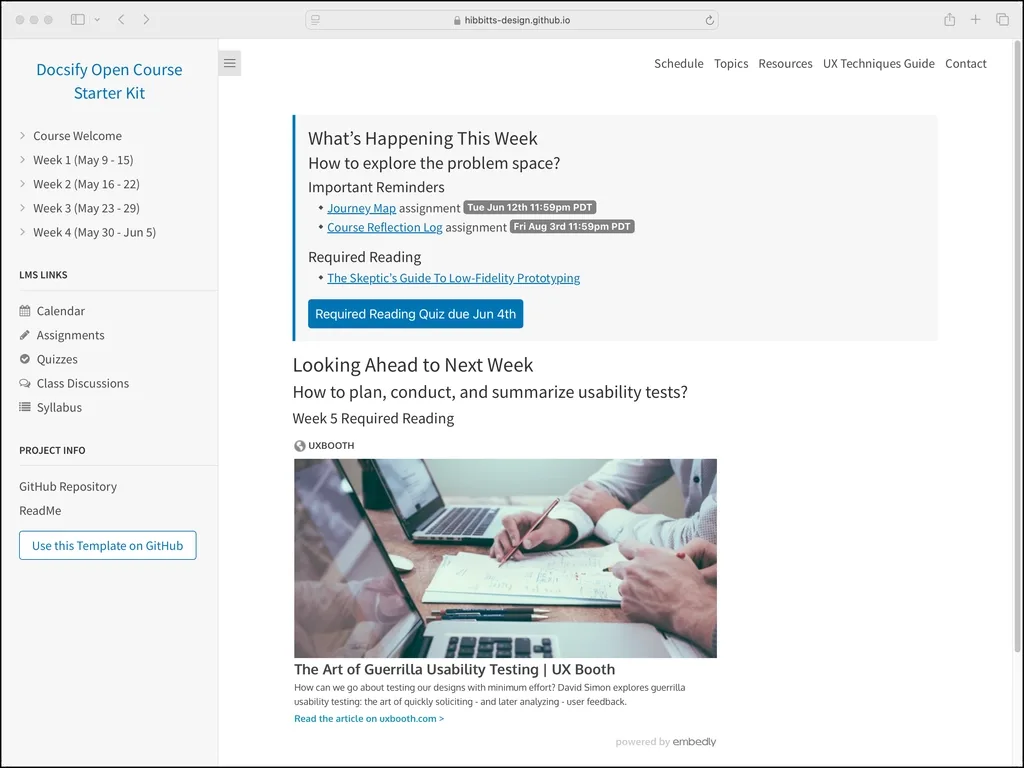
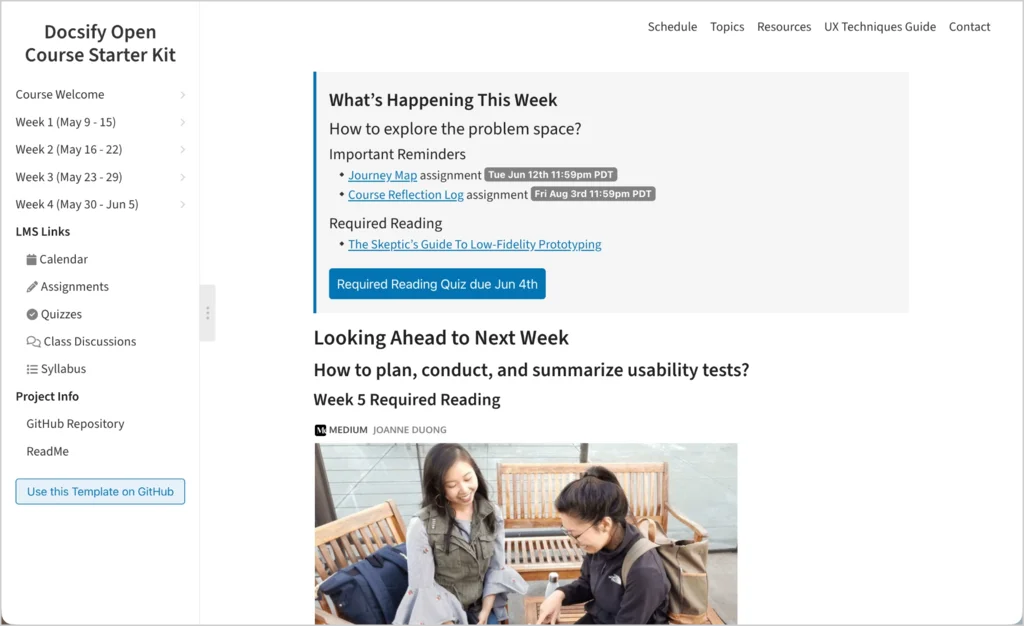
Update screenshots.

Changed region(s): [[0.0, 0.1214, 1.0, 1.0], [0.0, 0.0, 1.0, 0.8498], [0.0, 0.7588, 0.1875, 0.8195]]

diff --git a/docsify-starter-kits.html b/docsify-starter-kits.html
@@ -205,7 +205,7 @@
     <h2 id="choose-your-kit" style="font-size:1.3rem; margin:44px 0 14px;">Choose Your Kit</h2>
     <div class="kit-grid">
       <div class="kit">
-        <div class="grav-thumb"><a href="https://hibbitts-design.github.io/demo-docsify-open-course-starter-kit/#/" target="_blank" rel="noopener"><img src="assets/screenshots/docsify-course-kit-demo.webp" width="1024" height="768" alt="Docsify Open Course Starter Kit demo site, showing a sidebar with weekly course navigation next to a weekly overview page"></a></div>
+        <div class="grav-thumb"><a href="https://hibbitts-design.github.io/demo-docsify-open-course-starter-kit/#/" target="_blank" rel="noopener"><img src="assets/screenshots/docsify-course-kit-demo.webp" width="1024" height="626" alt="Docsify Open Course Starter Kit demo site, showing a sidebar with weekly course navigation next to a weekly overview page"></a></div>
         <h3>Open Course Kit</h3>
         <div class="kit-meta"><span class="badge tk sm"><span aria-hidden="true">&#9733;</span> 51</span></div>
         <p>A ready-to-use template for a single open course site &ndash; the simplest starting point, with course navigation and a sidebar built in.</p>
@@ -215,7 +215,7 @@
         </div>
       </div>
       <div class="kit">
-        <div class="grav-thumb"><a href="https://hibbitts-design.github.io/demo-docsify-open-multicourse-starter-kit/#/" target="_blank" rel="noopener"><img src="assets/screenshots/docsify-multicourse-kit-demo.webp" width="1024" height="768" alt="Docsify Open MultiCourse Starter Kit demo site, showing a course-selection layer with three example courses"></a></div>
+        <div class="grav-thumb"><a href="https://hibbitts-design.github.io/demo-docsify-open-multicourse-starter-kit/#/" target="_blank" rel="noopener"><img src="assets/screenshots/docsify-multicourse-kit-demo.webp" width="1024" height="626" alt="Docsify Open MultiCourse Starter Kit demo site, showing a course-selection layer with three example courses"></a></div>
         <h3>Open MultiCourse Kit</h3>
         <div class="kit-meta"><span class="badge tk sm"><span aria-hidden="true">&#9733;</span> 13</span></div>
         <p>The Open Course Kit plus a course-selection layer, for educators and facilitators managing several courses from one site.</p>
@@ -225,7 +225,7 @@
         </div>
       </div>
       <div class="kit">
-        <div class="grav-thumb"><a href="https://hibbitts-design.github.io/demo-docsify-open-publishing-starter-kit/#/" target="_blank" rel="noopener"><img src="assets/screenshots/docsify-publishing-kit-demo.webp" width="1024" height="768" alt="Docsify Open Publishing Starter Kit demo page, showing a hero photo above a list of website pages and topics"></a></div>
+        <div class="grav-thumb"><a href="https://hibbitts-design.github.io/demo-docsify-open-publishing-starter-kit/#/" target="_blank" rel="noopener"><img src="assets/screenshots/docsify-publishing-kit-demo.webp" width="1024" height="626" alt="Docsify Open Publishing Starter Kit demo page, showing a hero photo above a list of website pages and topics"></a></div>
         <h3>Open Publishing Kit</h3>
         <div class="kit-meta"><span class="badge tk sm"><span aria-hidden="true">&#9733;</span> 61</span></div>
         <p>Suits articles, tutorials, and documentation &ndash; the right choice if you're publishing content rather than running a course.</p>
